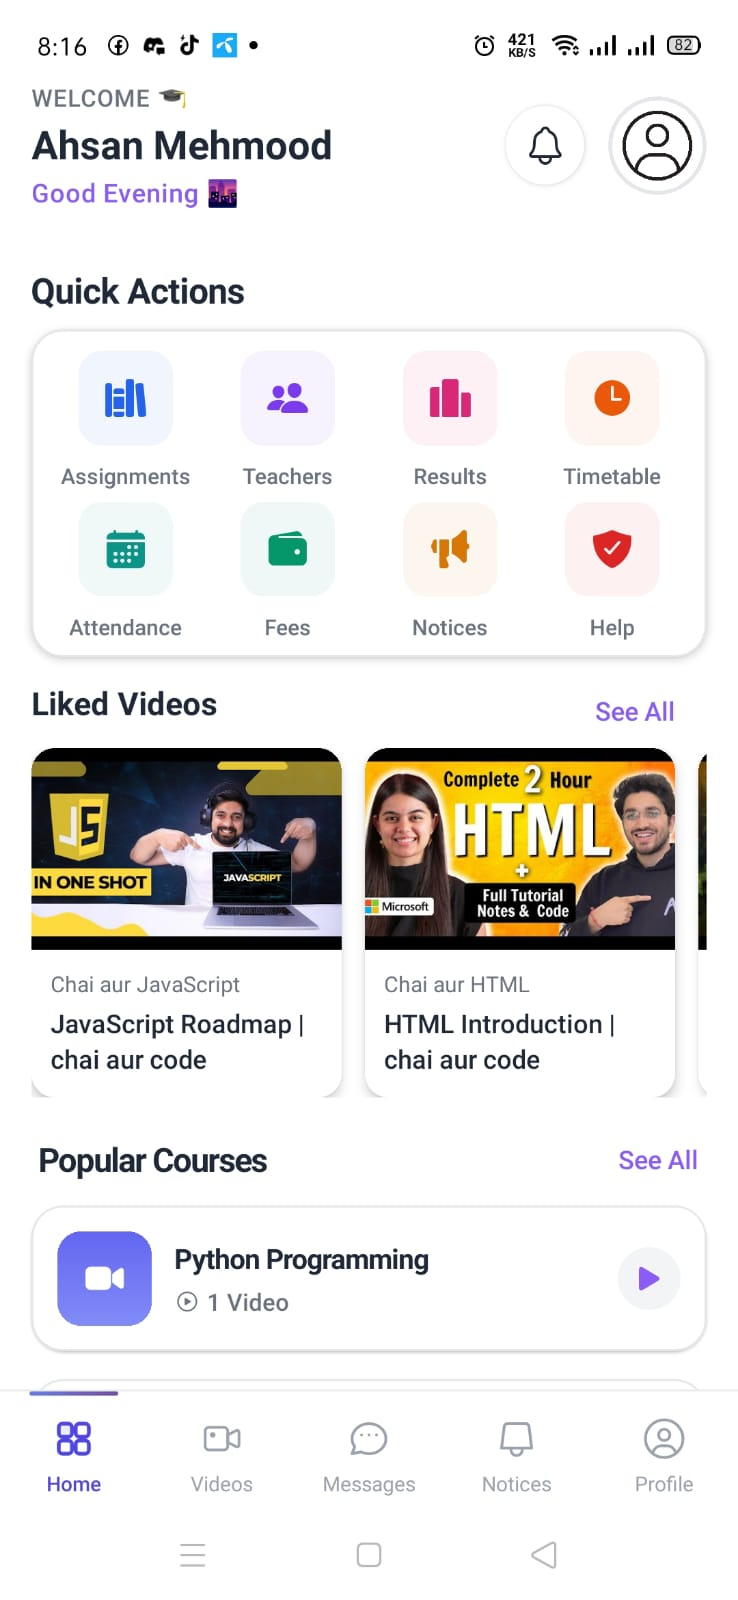
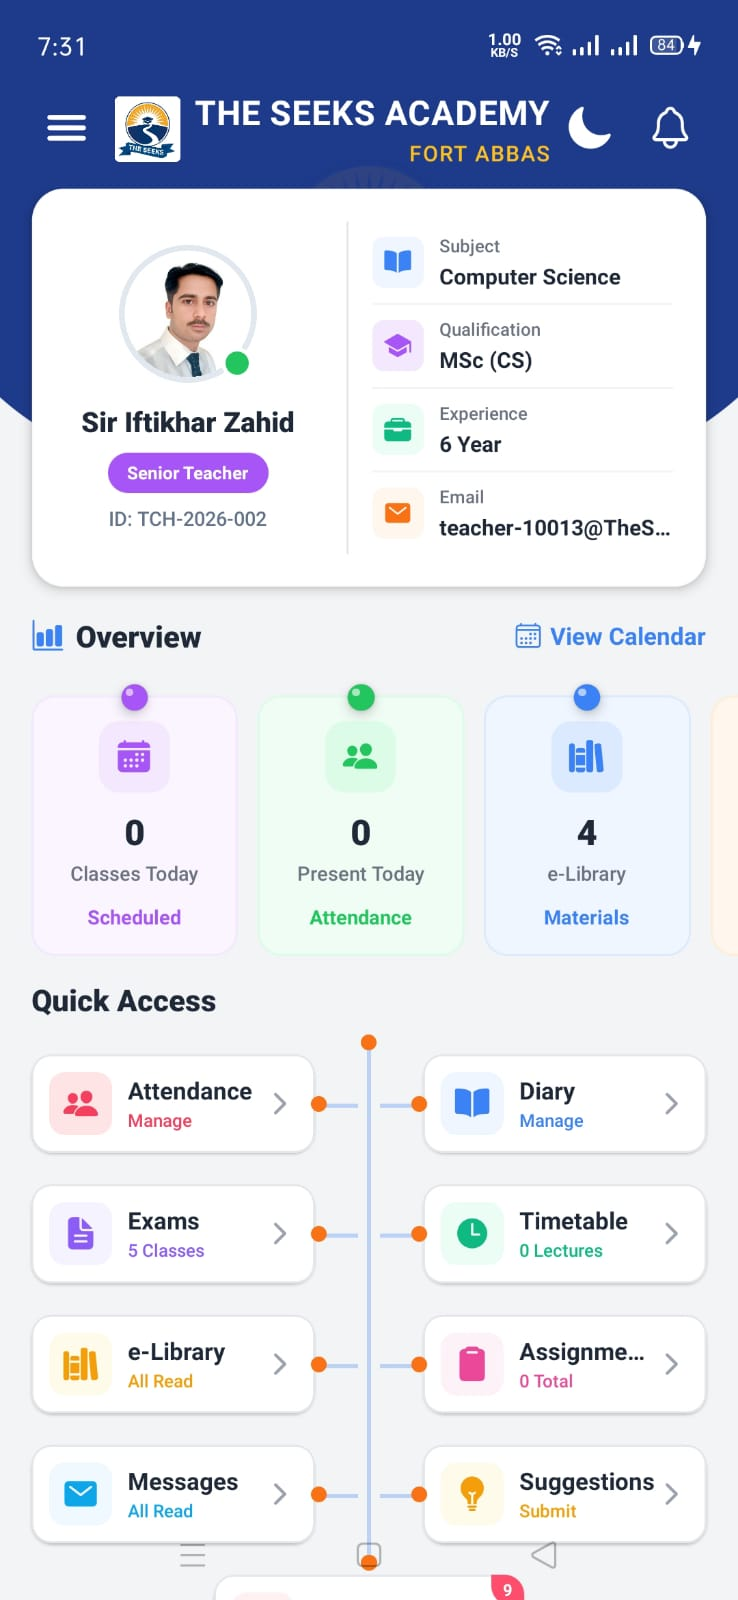
updated

diff --git a/TheSeeksAcademy/about.html b/TheSeeksAcademy/about.html
@@ -12,15 +12,15 @@
     <!-- SEO & Open Graph Meta Tags -->
     <meta property="og:title" content="About Us | The Seeks Academy">
     <meta property="og:description" content="Discover The Seeks Academy — empowering students of Fort Abbas since 2016 through modern academic excellence.">
-    <meta property="og:image" content="https://zahid.codes/TheSeeksAcademy/assets/Academy_Logo.png">
-    <meta property="og:url" content="https://zahid.codes/TheSeeksAcademy/about.html">
+    <meta property="og:image" content="https://iftikharzahid.me/theseeksacademy/assets/Academy_Logo.png">
+    <meta property="og:url" content="https://iftikharzahid.me/theseeksacademy/about.html">
     <meta property="og:type" content="website">
     <meta property="og:site_name" content="The Seeks Academy">
     
     <meta name="twitter:card" content="summary_large_image">
     <meta name="twitter:title" content="About Us | The Seeks Academy">
     <meta name="twitter:description" content="Discover The Seeks Academy — empowering students of Fort Abbas since 2016 through modern academic excellence.">
-    <meta name="twitter:image" content="https://zahid.codes/TheSeeksAcademy/assets/Academy_Logo.png">
+    <meta name="twitter:image" content="https://iftikharzahid.me/theseeksacademy/assets/Academy_Logo.png">
     
     <meta name="theme-color" content="#1A3A7A">
     <meta name="keywords" content="The Seeks Academy, Fort Abbas, School, Education, Academy, Student Portal">

diff --git a/TheSeeksAcademy/index.html b/TheSeeksAcademy/index.html
@@ -13,8 +13,8 @@
     <meta property="og:title" content="The Seeks Academy | Fort Abbas">
     <meta property="og:description"
         content="The Seeks Academy — a modern academic platform for students of Fort Abbas. Access assignments, results, timetables, attendance, and more from a single app.">
-    <meta property="og:image" content="https://zahid.codes/TheSeeksAcademy/assets/Academy_Logo.png">
-    <meta property="og:url" content="https://zahid.codes/TheSeeksAcademy/">
+    <meta property="og:image" content="https://iftikharzahid.me/theseeksacademy/assets/Academy_Logo.png">
+    <meta property="og:url" content="https://iftikharzahid.me/theseeksacademy/">
     <meta property="og:type" content="website">
     <meta property="og:site_name" content="The Seeks Academy">
 
@@ -22,7 +22,7 @@
     <meta name="twitter:title" content="The Seeks Academy | Fort Abbas">
     <meta name="twitter:description"
         content="The Seeks Academy — a modern academic platform for students of Fort Abbas. Access assignments, results, timetables, attendance, and more from a single app.">
-    <meta name="twitter:image" content="https://zahid.codes/TheSeeksAcademy/assets/Academy_Logo.png">
+    <meta name="twitter:image" content="https://iftikharzahid.me/theseeksacademy/assets/Academy_Logo.png">
 
     <meta name="theme-color" content="#1A3A7A">
     <meta name="keywords" content="The Seeks Academy, Fort Abbas, School, Education, Academy, Student Portal">
